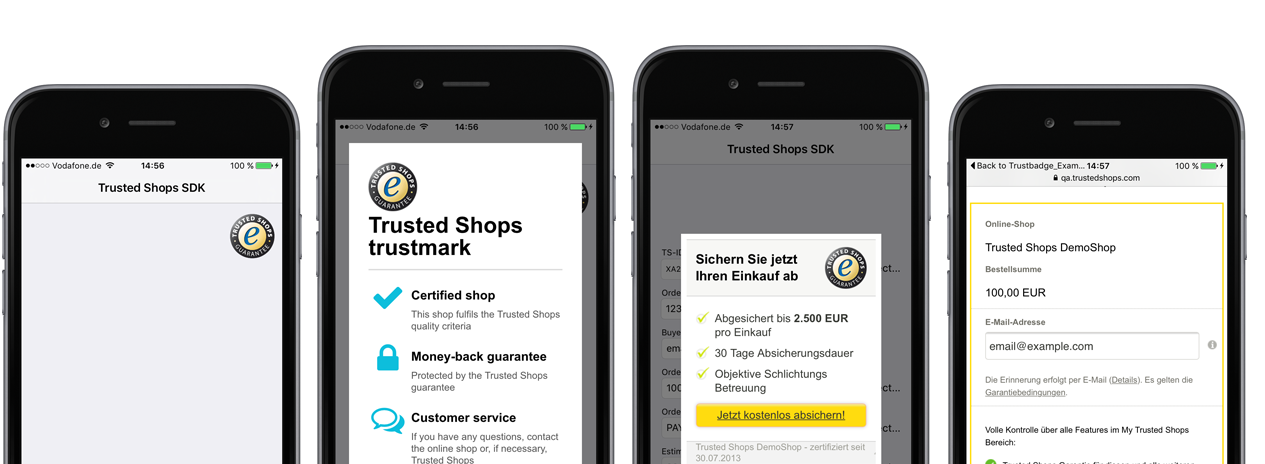
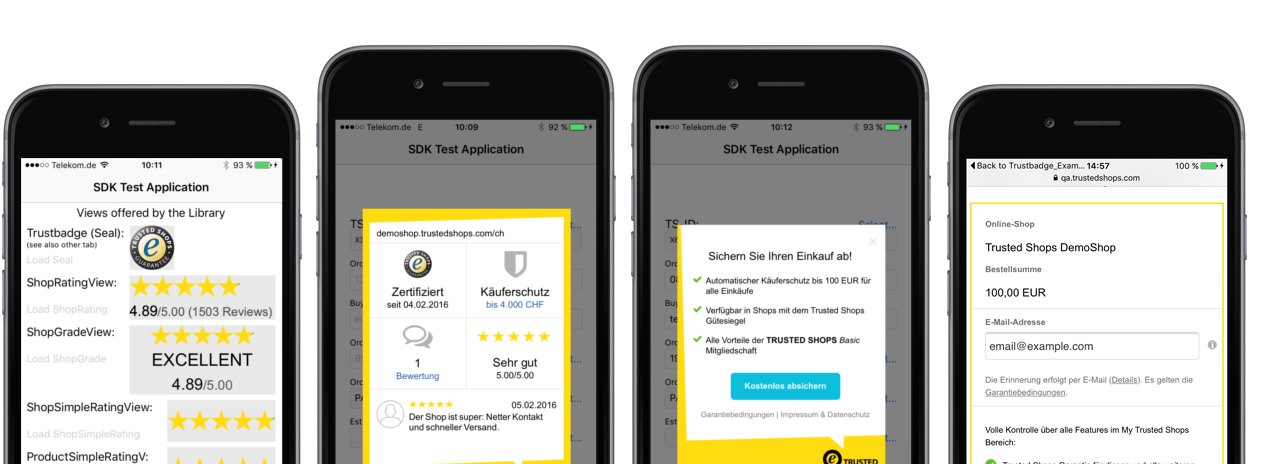
prepared everything for release of 0.8.1 also updated screenshot used in the readme to reflect latest look

diff --git a/README.md b/README.md
@@ -32,7 +32,7 @@ Trustbadge is available through [CocoaPods](http://cocoapods.org). To install
 it, simply add the following line to your Podfile:
 
 ```ruby
-pod "Trustbadge", "~> 0.8"
+pod "Trustbadge", "~> 0.8.1"
 ```
 
 #### Example project ####
@@ -242,7 +242,7 @@ Please contact your customer success manager directly or via [members@trustedsho
 ## 7. About this SDK ##
 
 #### Documentation ####
-The latest documentation can be found at [cocoadocs](http://cocoadocs.org/docsets/Trustbadge/0.8.0/).
+The latest documentation can be found at [cocoadocs](http://cocoadocs.org/docsets/Trustbadge/0.8.1/).
 All headers are documented according to the [appledoc](http://appledoc.gentlebytes.com/appledoc/) syntax, so you can also use that to directly include the docsets into your XCode.
 
 #### Data Privacy ####

diff --git a/CHANGELOG.md b/CHANGELOG.md
@@ -1,5 +1,9 @@
 # Trustbadge
 
+## Version 0.8.1
+
+* Changed the nullability specifier in some unavailable init methods (see e.g. TRSOrder.h) to nonnull. This way swift projects using the pod won't give warnings for mismatched specifiers. This has no other effect.
+
 ## Version 0.8.0
 
 * The eMail is now optional for TRSOrder objects (and thus also for TRSCustomer objects). This allows processing orders for which the App does not collect an email address itself (for example in-app purchases). See updated README file. 
